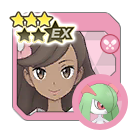
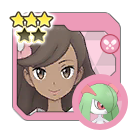
Remove Blossom EX

Changed region(s): [[0.2963, 0.1185, 0.5926, 0.3556], [0.3556, 0.0889, 0.3852, 0.1185], [0.2963, 0.0889, 0.3259, 0.1185]]

diff --git a/js/syncpairs.js b/js/syncpairs.js
@@ -17683,8 +17683,7 @@ export const SYNCPAIRS = [
 		"images": [
 			"Sync Pairs/0F_KALOS/Blossom_0281.png",
 			"Sync Pairs/4Star/Blossom_0281_4.png",
-			"Sync Pairs/5Star/Blossom_0281_5.png",
-			"Sync Pairs/0F_KALOS/Blossom_0281_EX.png"
+			"Sync Pairs/5Star/Blossom_0281_5.png"
 		],
 		"themes": [
 			"Fairy",
